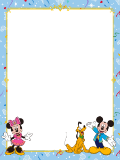
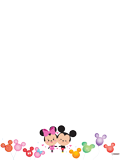
1,解决编辑图片的bug。 2，更新相框图片。3，解决长时间扫描等待的问题。

diff --git a/app/src/main/java/com/pictureair/photopass/activity/EditPhotoActivity.java b/app/src/main/java/com/pictureair/photopass/activity/EditPhotoActivity.java
@@ -19,6 +19,7 @@ import android.net.Uri;
 import android.os.AsyncTask;
 import android.os.Bundle;
 import android.os.Handler;
+import android.os.Looper;
 import android.os.Message;
 import android.util.Log;
 import android.view.View;
@@ -65,6 +66,7 @@ import com.pictureair.photopass.util.AppUtil;
 import com.pictureair.photopass.util.Common;
 import com.pictureair.photopass.util.JsonUtil;
 import com.pictureair.photopass.util.LocationUtil;
+import com.pictureair.photopass.util.PictureAirLog;
 import com.pictureair.photopass.util.ScreenUtil;
 import com.pictureair.photopass.widget.CustomProgressDialog;
 import com.pictureair.photopass.widget.HorizontalListView;
@@ -305,7 +307,7 @@ public class EditPhotoActivity extends BaseActivity implements OnClickListener, 
 		new Thread() {
 			public void run() {
 				//		    addStickerImages(STICKERPATH); //获取资源文件的  饰品   加载饰品资源
-				initDate();
+				initData();
 			};
 		}.start();
 
@@ -357,7 +359,7 @@ public class EditPhotoActivity extends BaseActivity implements OnClickListener, 
 		back.setOnClickListener(this);
 	}
 
-	private void initDate(){
+	private void initData(){
 		nameFile = new File(Common.PHOTO_SAVE_PATH);
 
 		if (!nameFile.isDirectory()) {
@@ -408,6 +410,21 @@ public class EditPhotoActivity extends BaseActivity implements OnClickListener, 
 		frameInfo.frameOriginalPathLandscape = Scheme.ASSETS.wrap("frame/frame_h_3.png");
 		frameInfo.frameOriginalPathPortrait = Scheme.ASSETS.wrap("frame/frame_v_3.png");
 		frameInfos.add(frameInfo);
+
+		frameInfo = new FrameOrStikerInfo();
+		frameInfo.frameThumbnailPathH160 = Scheme.ASSETS.wrap("frame/frame_h_4t.png");
+		frameInfo.frameThumbnailPathV160 = Scheme.ASSETS.wrap("frame/frame_v_4t.png");
+		frameInfo.frameOriginalPathLandscape = Scheme.ASSETS.wrap("frame/frame_h_4.png");
+		frameInfo.frameOriginalPathPortrait = Scheme.ASSETS.wrap("frame/frame_v_4.png");
+		frameInfos.add(frameInfo);
+
+		frameInfo = new FrameOrStikerInfo();
+		frameInfo.frameThumbnailPathH160 = Scheme.ASSETS.wrap("frame/frame_h_5t.png");
+		frameInfo.frameThumbnailPathV160 = Scheme.ASSETS.wrap("frame/frame_v_5t.png");
+		frameInfo.frameOriginalPathLandscape = Scheme.ASSETS.wrap("frame/frame_h_5.png");
+		frameInfo.frameOriginalPathPortrait = Scheme.ASSETS.wrap("frame/frame_v_5.png");
+		frameInfos.add(frameInfo);
+
 
 		addStickerImages(STICKERPATH); //获取资源文件的  饰品   加载饰品资源
 
@@ -493,14 +510,14 @@ public class EditPhotoActivity extends BaseActivity implements OnClickListener, 
 						frameImageView.setVisibility(View.INVISIBLE);
 					}
 					//恢复到没有裁减的状态。
-					if (photoInfo.onLine == 1) {
-						//网络图片。
-						isOnlinePic = true;
-						loadOnlineImg(photoURL);
-					}else{
-						//本地图片
-						isOnlinePic = false;
-						loadImage(photoURL);
+					if (pathList.size() == 1){ //代表最初的图片。
+						if (photoInfo.onLine == 1) {
+							loadOnlineImg(photoURL);
+						}else{
+							loadImage(photoURL);
+						}
+					}else{ // 如果 pathList不仅仅存在 一个。说明本地都存在。 恢复到前一个
+						loadImage(pathList.get(pathList.size() - 1));
 					}
 				}
 
@@ -522,19 +539,17 @@ public class EditPhotoActivity extends BaseActivity implements OnClickListener, 
 				}
 
 				//如果添加了字体  // 如果旋转了
-				if (editType == 4) { //暂时方法。
-					if (photoInfo.onLine == 1) {
-						//网络图片。
-						isOnlinePic = true;
-						loadOnlineImg(photoURL);
-					}else{
-						//本地图片
-						isOnlinePic = false;
-						loadImage(photoURL);
+				if (editType == 4) { // 恢复到原始状态。
+					if (pathList.size() == 1){ //代表最初的图片。
+						if (photoInfo.onLine == 1) {
+							loadOnlineImg(photoURL);
+						}else{
+							loadImage(photoURL);
+						}
+					}else{ // 如果 pathList不仅仅存在 一个。说明本地都存在。 恢复到前一个
+						loadImage(pathList.get(pathList.size() - 1));
 					}
-//					pathList.add(photoURL);
 				}
-
 				exitEditStates(); // 推出编辑状态
 				break;
 
@@ -690,13 +705,30 @@ public class EditPhotoActivity extends BaseActivity implements OnClickListener, 
 				}
 
 				break;
-			case R.id.preview_save:
-				String url = nameFile + "/" + dateFormat.format(new Date()) + ".JPG";
-				EditPhotoUtil.copyFile(pathList.get(index), url);
-				scan(url);
-				EditPhotoUtil.deleteTempPic(Common.TEMPPIC_PATH);
+			case R.id.preview_save: //真正的保存按钮。
+				final String url = nameFile + "/" + dateFormat.format(new Date()) + ".JPG";
+				if (index == 0 && isOnlinePic == true){  //如果是网络图片，并且 index ＝ 0 的时候，就没有保存到临时文件目录的文件，故保存Bitmap
+					dialog = CustomProgressDialog.show(EditPhotoActivity.this, getString(R.string.is_loading), false, null);
+					dialog.show();
+					new Thread(new Runnable() {
+						@Override
+						public void run() {
+							EditPhotoUtil.saveBitmap(mainBitmap , url);
+							scan(url);
+							EditPhotoUtil.deleteTempPic(Common.TEMPPIC_PATH);
+							Looper.prepare();
+							dialog.dismiss();
+							Looper.loop();
+						}
+					}).start();
+				}else{
+					EditPhotoUtil.copyFile(pathList.get(index), url);
+					scan(url);
+					EditPhotoUtil.deleteTempPic(Common.TEMPPIC_PATH);
+				}
+
 				break;
-			case R.id.btn_forward:
+			case R.id.btn_forward: // 前进按钮。
 				if (index == -1) {
 					index = pathList.size() - 1;
 				}
@@ -707,7 +739,7 @@ public class EditPhotoActivity extends BaseActivity implements OnClickListener, 
 				}
 				check();
 				break;
-			case R.id.btn_cancel:
+			case R.id.btn_cancel: //返回按钮。
 				if (index == -1) {
 					index = pathList.size() - 1;
 				}
@@ -827,7 +859,7 @@ public class EditPhotoActivity extends BaseActivity implements OnClickListener, 
 	 * @param filepath
 	 */
 	public void loadImage(String filepath) {
-		photoURL = filepath;
+//		photoURL = filepath;
 		if (mLoadImageTask != null) {
 			mLoadImageTask.cancel(true);
 		}

diff --git a/app/src/main/java/com/pictureair/photopass/activity/MipCaptureActivity.java b/app/src/main/java/com/pictureair/photopass/activity/MipCaptureActivity.java
@@ -35,7 +35,6 @@ import com.pictureair.photopass.zxing.decoding.CaptureActivityHandler;
 import com.pictureair.photopass.zxing.decoding.InactivityTimer;
 import com.pictureair.photopass.zxing.view.ViewfinderView;
 
-import org.w3c.dom.Text;
 
 import java.io.File;
 import java.io.FileOutputStream;
@@ -185,9 +184,7 @@ public class MipCaptureActivity extends BaseActivity implements Callback,View.On
     public void onCreate(Bundle savedInstanceState) {
         super.onCreate(savedInstanceState);
         setContentView(R.layout.activity_capture);
-        System.out.println("-----------create");
-
-//        File tessdata = new File(OCRUtils.getSDPath() + java.io.File.separator+"tessdata"); //创建文件夹。
+        scanType = 1; // 每次进入的时候 更改为扫描QR码的方式。
         File tessdata = new File(Common.OCR_PATH); //创建文件夹。
         if (!tessdata.exists()){
             tessdata.mkdirs();

diff --git a/app/src/main/java/com/pictureair/photopass/editPhoto/EditPhotoUtil.java b/app/src/main/java/com/pictureair/photopass/editPhoto/EditPhotoUtil.java
@@ -142,9 +142,8 @@ public class EditPhotoUtil {
 	
 	/**
 	 * 保存Bitmap图片到指定文件
-	 * 
 	 * @param bm
-	 * @param name
+	 * @param filePath
 	 */
 	public static void saveBitmap(Bitmap bm, String filePath) {
 		File f = new File(filePath);
